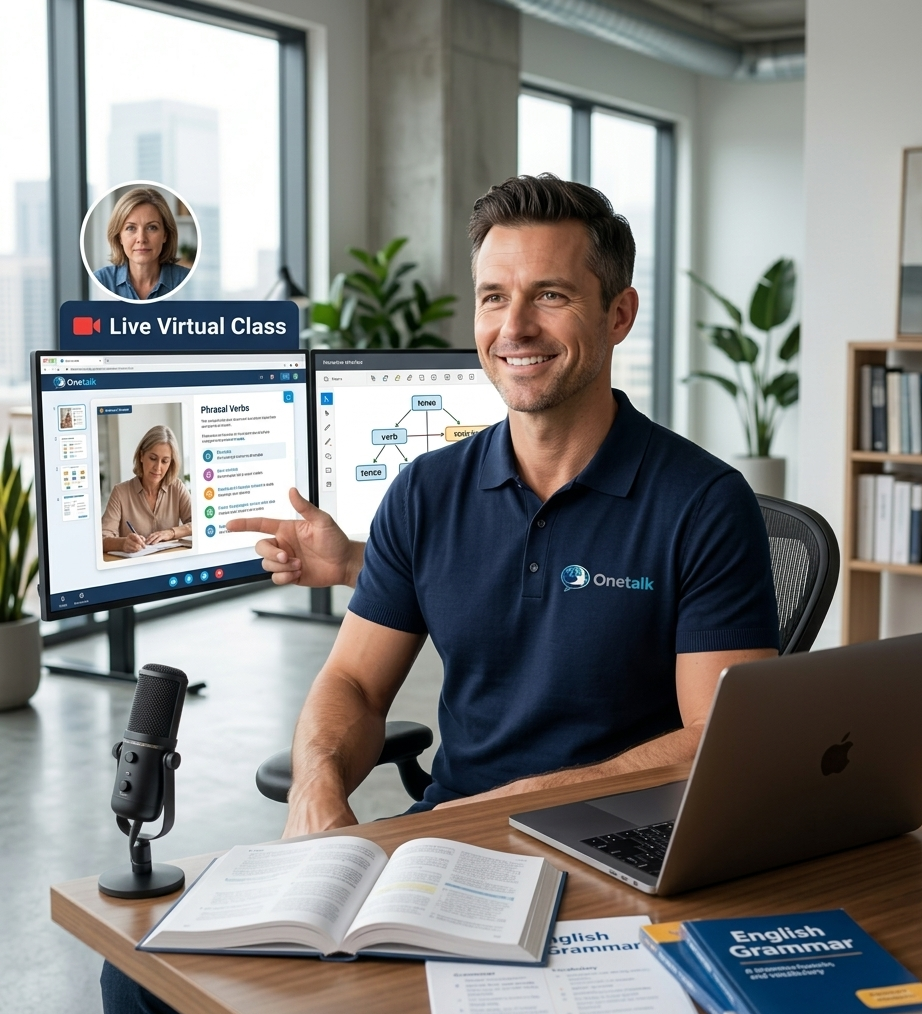
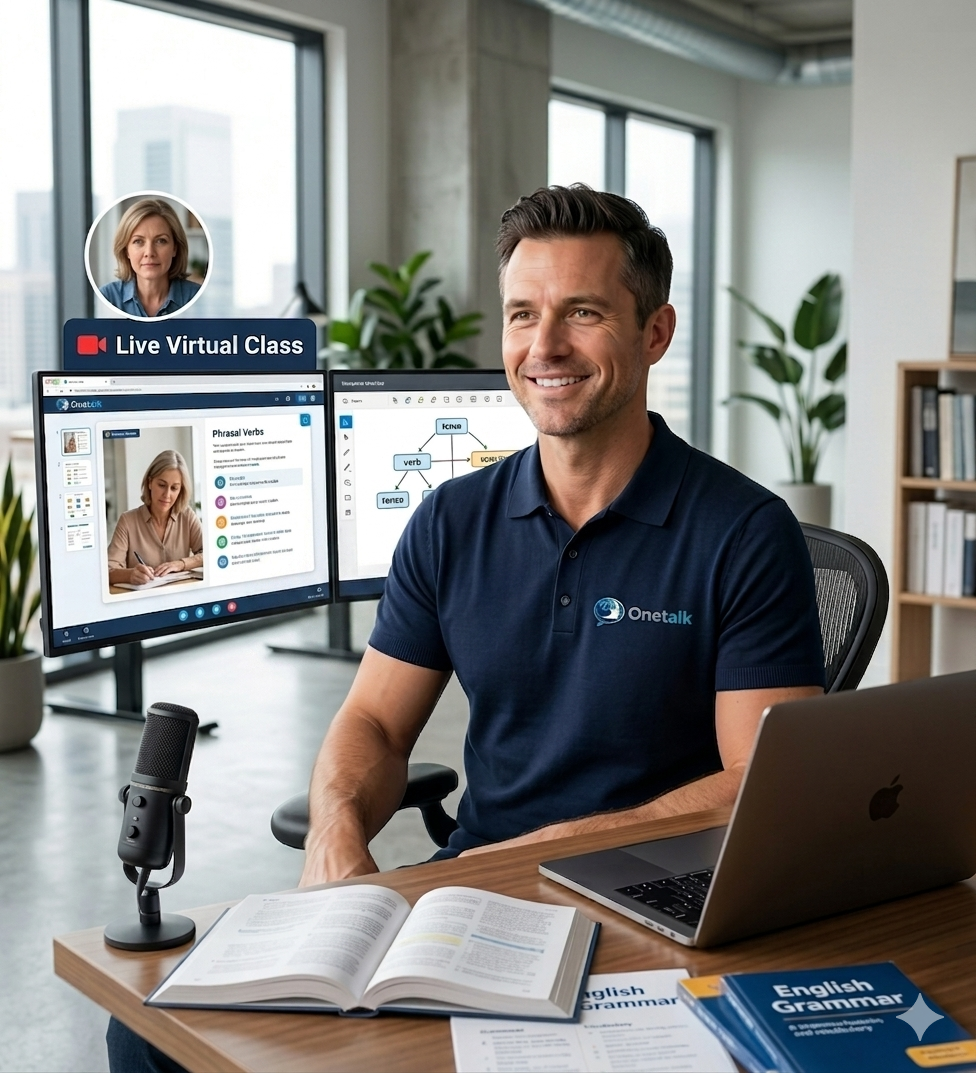
Update hero_adults image and apply cache buster to index.html

diff --git a/Codigo fuente_ One talk academy/index.html b/Codigo fuente_ One talk academy/index.html
@@ -130,7 +130,7 @@ height="0" width="0" style="display:none;visibility:hidden"></iframe></noscript>
     <div class="hero-visual r right">
       <div style="position:relative">
         <div class="hero-card-main" style="position:relative;">
-          <img src="imagenes/hero_adults.png" alt="Profesor One Talk en clase interactiva corporativa" loading="lazy" style="width:100%;height:100%;object-fit:cover;display:block;">
+          <img src="imagenes/hero_adults.png?v=2" alt="Profesor One Talk en clase interactiva corporativa" loading="lazy" style="width:100%;height:100%;object-fit:cover;display:block;">
           <div style="position:absolute;bottom:20px;right:20px;width:80px;background:rgba(255,255,255,0.9);padding:8px;border-radius:10px;backdrop-filter:blur(10px);box-shadow:0 10px 25px rgba(0,0,0,0.2);border:1px solid rgba(255,255,255,0.3)">
             <img src="imagenes/logo.png" style="width:100%;height:auto;object-fit:contain;" onerror="this.src='https://placehold.co/100x100/1F3A5F/FFF?text=OT'">
           </div>

diff --git a/index.html b/index.html
@@ -130,7 +130,7 @@ height="0" width="0" style="display:none;visibility:hidden"></iframe></noscript>
     <div class="hero-visual r right">
       <div style="position:relative">
         <div class="hero-card-main" style="position:relative;">
-          <img src="imagenes/hero_adults.png" alt="Profesor One Talk en clase interactiva corporativa" loading="lazy" style="width:100%;height:100%;object-fit:cover;display:block;">
+          <img src="imagenes/hero_adults.png?v=2" alt="Profesor One Talk en clase interactiva corporativa" loading="lazy" style="width:100%;height:100%;object-fit:cover;display:block;">
           <div style="position:absolute;bottom:20px;right:20px;width:80px;background:rgba(255,255,255,0.9);padding:8px;border-radius:10px;backdrop-filter:blur(10px);box-shadow:0 10px 25px rgba(0,0,0,0.2);border:1px solid rgba(255,255,255,0.3)">
             <img src="imagenes/logo.png" style="width:100%;height:auto;object-fit:contain;" onerror="this.src='https://placehold.co/100x100/1F3A5F/FFF?text=OT'">
           </div>
